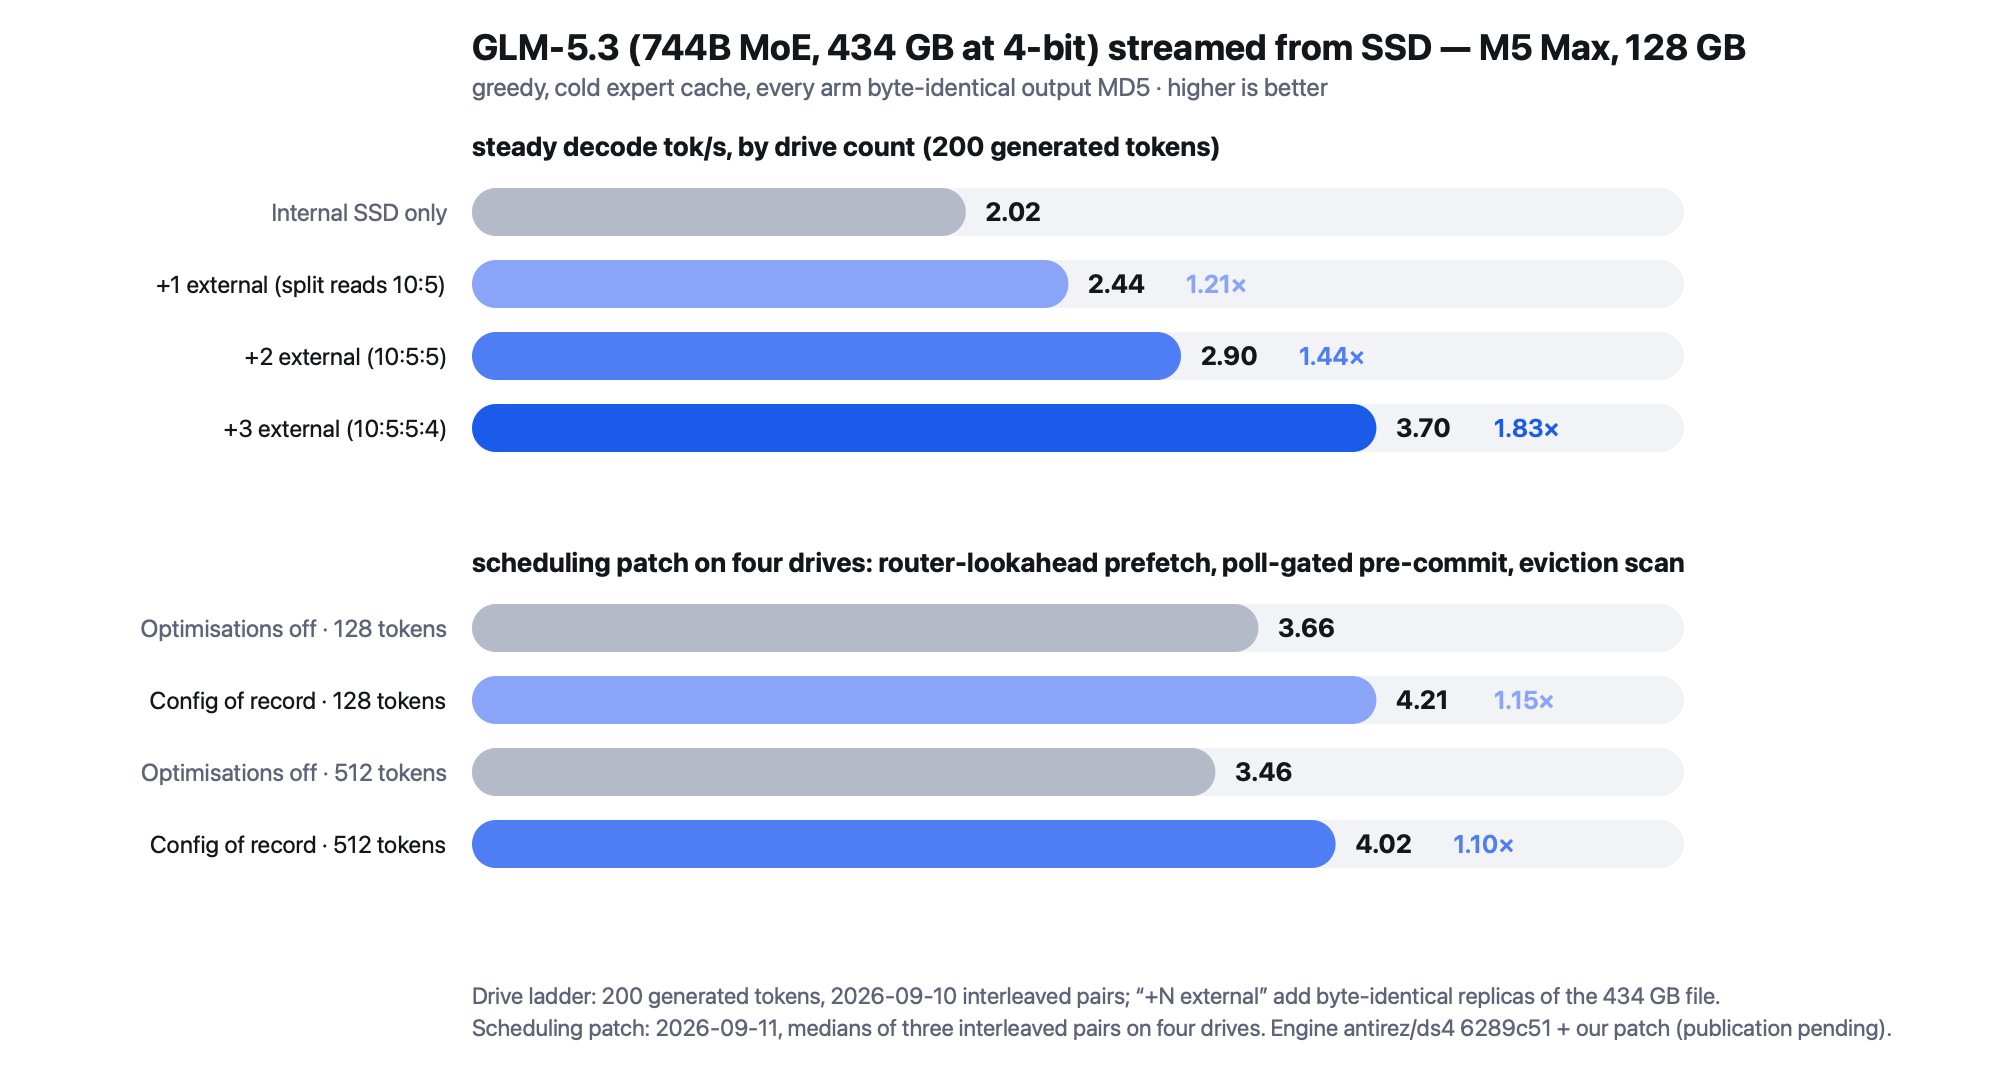
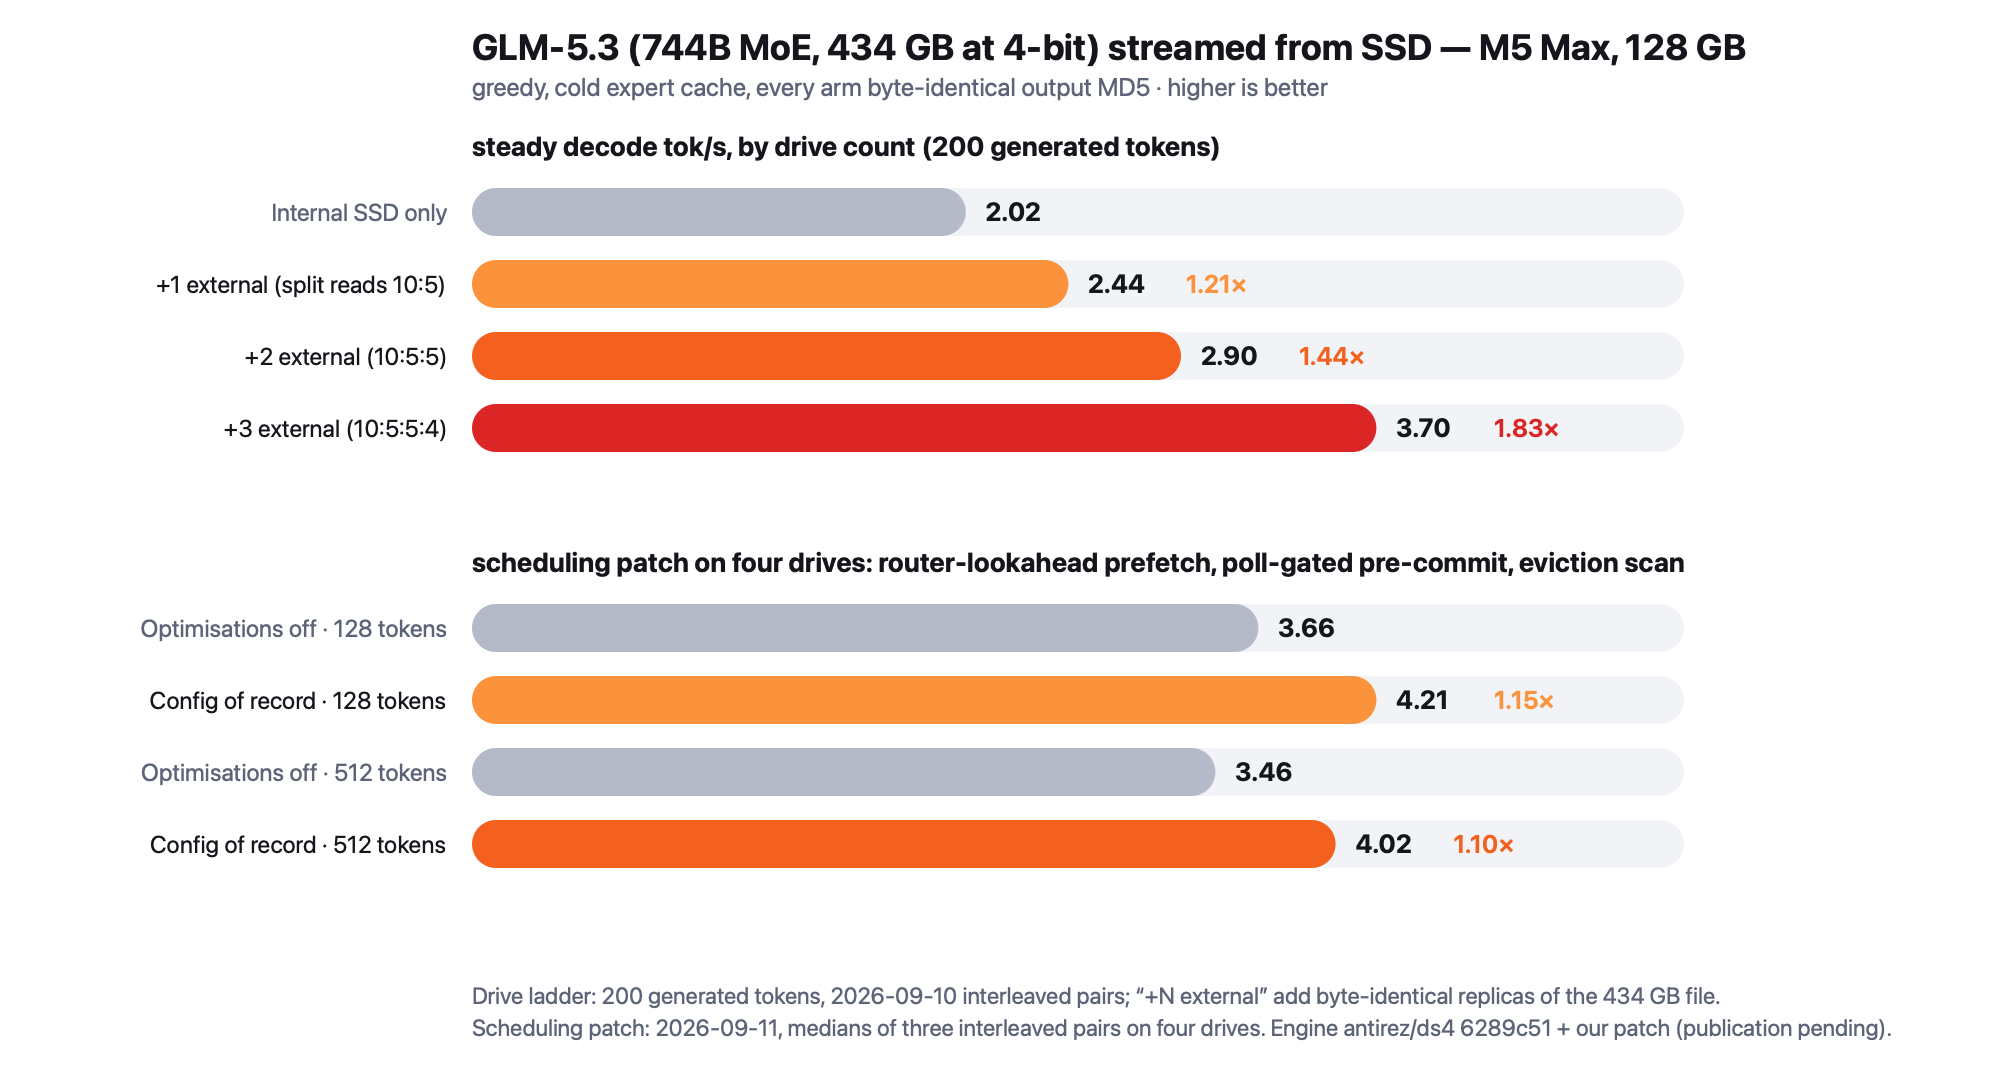
charts: red-to-orange palette for every bar chart (base stays grey)
Same numbers, only the colour ramp changes: orange, deep orange, red, dark red.

Claude-Session: https://claude.ai/code/session_01GyKwdksX8gTKkahyvudEAM

diff --git a/charts/make-ladder.py b/charts/make-ladder.py
@@ -10,7 +10,7 @@ def chart(data, dark=False):
     bg      = '#0d1017' if dark else '#ffffff'
     base    = '#6b7280' if dark else '#b4bac7'
     track   = '#1a1f2b' if dark else '#f1f3f7'
-    accents = ['#8fa9ff', '#5b86f5', '#2f6beb'] if dark else ['#8aa4f7', '#4f7df3', '#1b5bea']
+    accents = ['#fdba74', '#fb923c', '#f87171'] if dark else ['#fb923c', '#f4611f', '#dc2626']
     W, panel_h, pad_l, pad_r, top = 1000, 204, 196, 26, 56
     rows = []
     for pi, (metric, unit) in enumerate([('prefill', 'prompt processing tok/s'), ('decode', 'steady decode tok/s')]):

diff --git a/charts/make-bars.py b/charts/make-bars.py
@@ -18,7 +18,7 @@ def chart(spec, dark=False):
     bg = '#0d1017' if dark else '#ffffff'
     base = '#6b7280' if dark else '#b4bac7'
     track = '#1a1f2b' if dark else '#f1f3f7'
-    accents = ['#8fa9ff', '#5b86f5', '#2f6beb', '#1d4fd1'] if dark else ['#8aa4f7', '#4f7df3', '#1b5bea', '#1447c2']
+    accents = ['#fdba74', '#fb923c', '#f87171', '#dc2626'] if dark else ['#fb923c', '#f4611f', '#dc2626', '#991b1b']
     W, pad_l, pad_r, top = 1000, int(spec.get('pad_left', 236)), 26, 56
     radius = float(spec.get('radius', 12))
     panels = spec['panels']

diff --git a/charts/make-columns.py b/charts/make-columns.py
@@ -19,7 +19,7 @@ def chart(spec, dark=False):
     bg = '#0d1017' if dark else '#ffffff'
     base = '#6b7280' if dark else '#b4bac7'
     track = '#1a1f2b' if dark else '#f1f3f7'
-    accents = ['#8fa9ff', '#5b86f5', '#2f6beb', '#1d4fd1'] if dark else ['#8aa4f7', '#4f7df3', '#1b5bea', '#1447c2']
+    accents = ['#fdba74', '#fb923c', '#f87171', '#dc2626'] if dark else ['#fb923c', '#f4611f', '#dc2626', '#991b1b']
     panels = spec['panels']
     W, top, gap, pad = 1000, 70, 34, 30
     panel_w = (W - 2 * pad - gap * (len(panels) - 1)) / len(panels)
